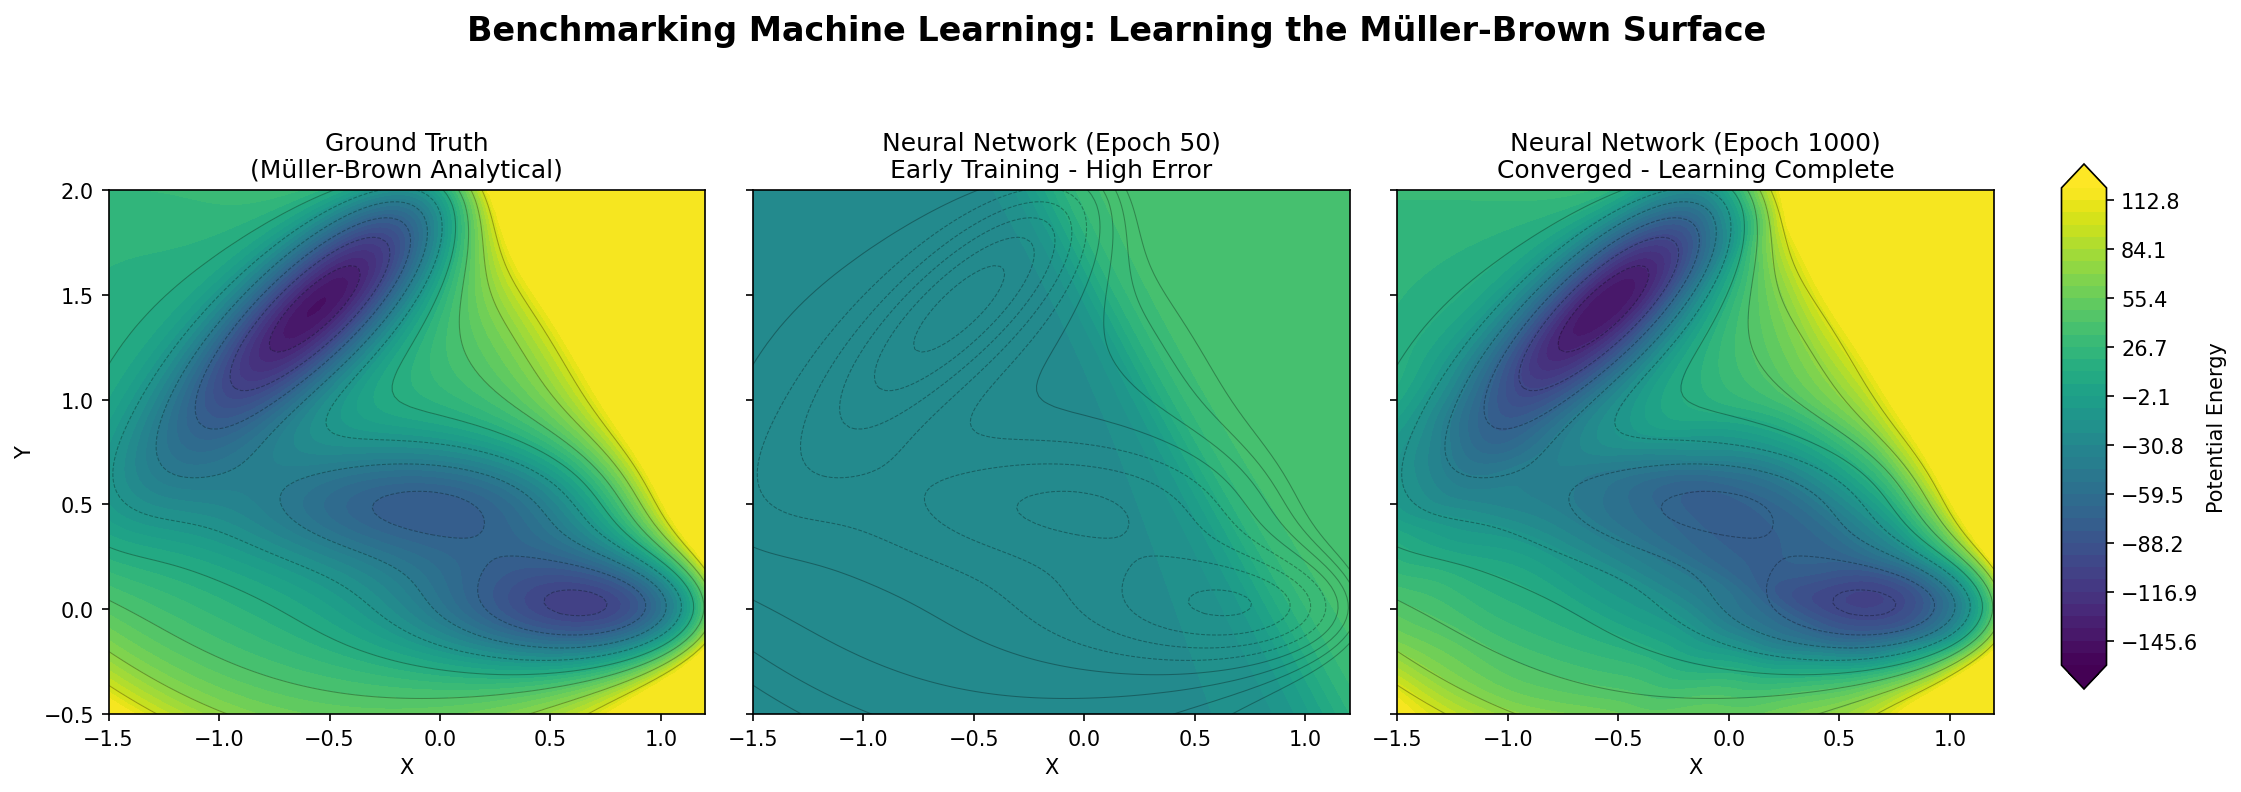
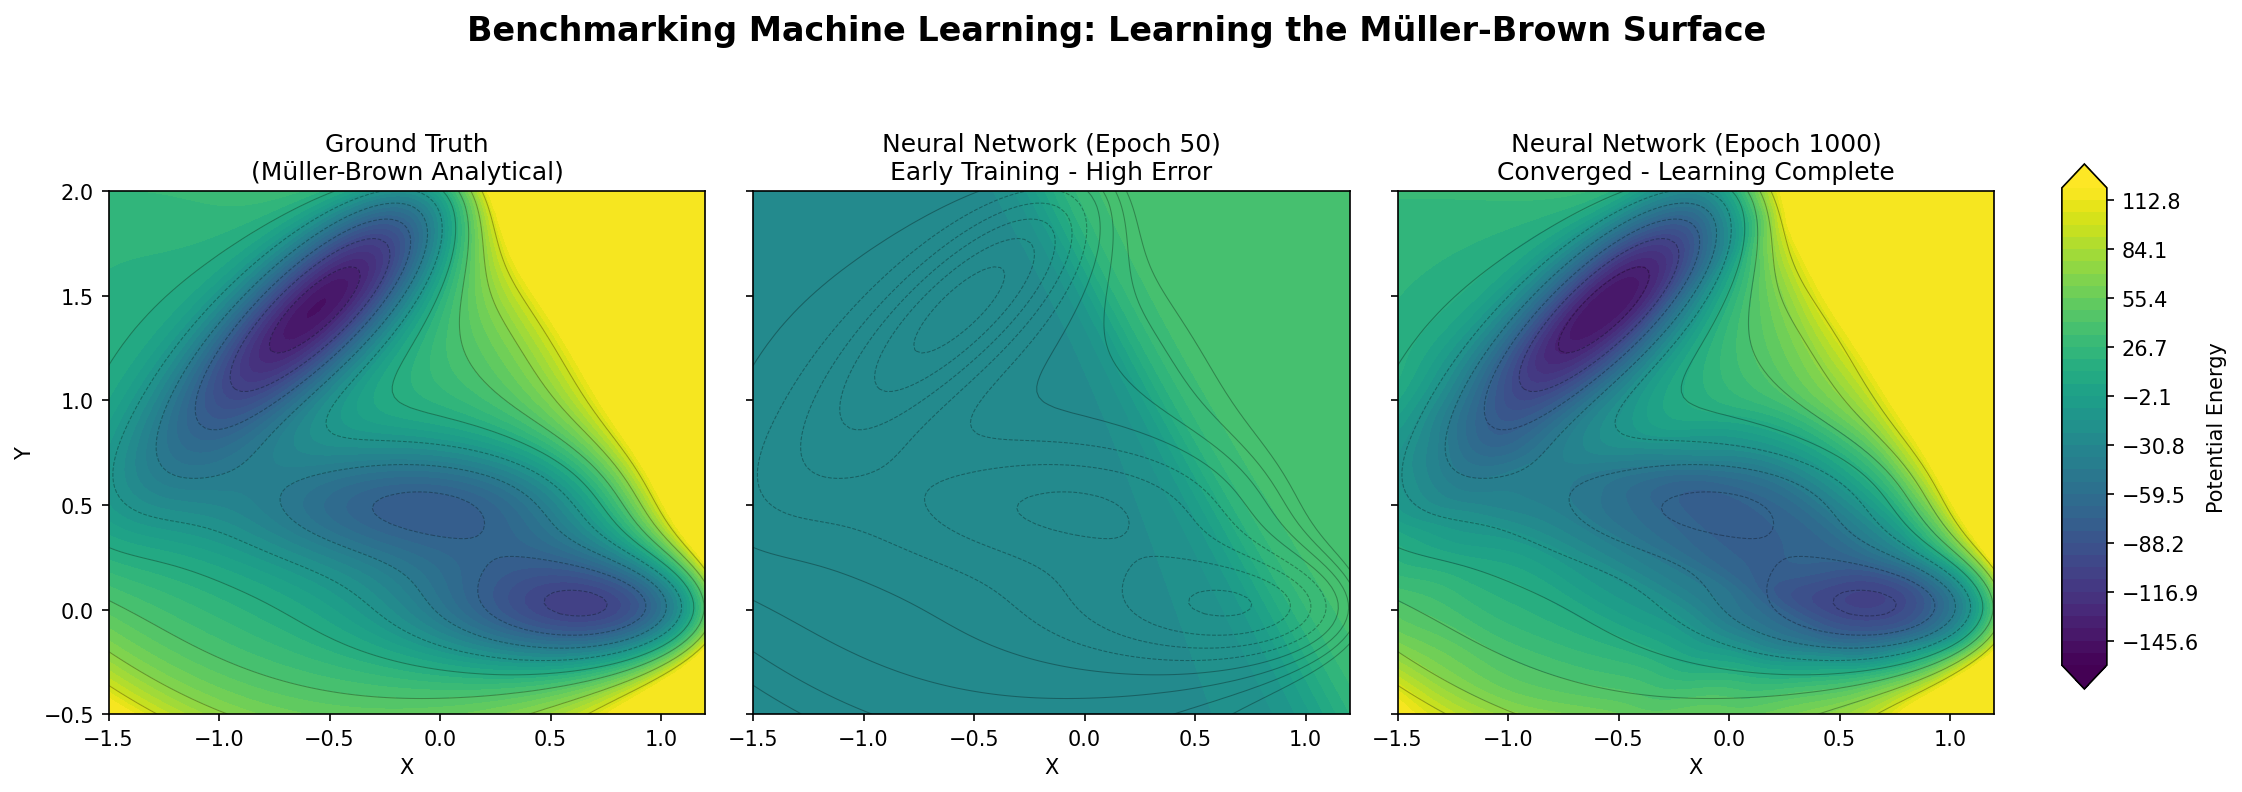
Use canonical potential in nnp.py benchmark
nnp.py reimplemented the Müller-Brown potential as a separate MuellerBrownGT
class with its own hardcoded parameters, which could drift from the canonical
constants. Import MuellerBrownPotential (float32) as the ground truth instead;
unsqueeze its (N,) output to (N, 1) to match the MLP target shape. Also fix the
output filename to match the committed image (muller-brown-ml-benchmark.png) and
drop the unused matplotlib.cm import. Regenerated plot reflects current code.

diff --git a/nnp.py b/nnp.py
@@ -3,30 +3,10 @@ import torch.nn as nn
 import torch.optim as optim
 import numpy as np
 import matplotlib.pyplot as plt
-from matplotlib import cm
 
-# --- 1. Ground Truth (Muller-Brown Class) ---
-class MuellerBrownGT(nn.Module):
-    def __init__(self):
-        super().__init__()
-        self.register_buffer("A", torch.tensor([-200., -100., -170., 15.]))
-        self.register_buffer("a", torch.tensor([-1., -1., -6.5, 0.7]))
-        self.register_buffer("b", torch.tensor([0., 0., 11., 0.6]))
-        self.register_buffer("c", torch.tensor([-10., -10., -6.5, 0.7]))
-        self.register_buffer("x0", torch.tensor([1., 0., -0.5, -1.]))
-        self.register_buffer("y0", torch.tensor([0., 0.5, 1.5, 1.]))
+from src.muller_brown import MuellerBrownPotential
 
-    def forward(self, coords):
-        # coords shape: (N, 2)
-        x, y = coords[:, 0], coords[:, 1]
-        V = torch.zeros_like(x)
-        for i in range(4):
-            dx = x - self.x0[i]
-            dy = y - self.y0[i]
-            V += self.A[i] * torch.exp(self.a[i]*dx**2 + self.b[i]*dx*dy + self.c[i]*dy**2)
-        return V.unsqueeze(1) # Shape (N, 1)
-
-# --- 2. The Student Model (Simple MLP) ---
+# --- 1. The Student Model (Simple MLP) ---
 class SimpleNNP(nn.Module):
     def __init__(self):
         super().__init__()
@@ -44,13 +24,13 @@ class SimpleNNP(nn.Module):
 
 # --- 3. Setup Data and Training ---
 torch.manual_seed(42)
-gt_model = MuellerBrownGT()
+gt_model = MuellerBrownPotential(dtype=torch.float32)
 student_model = SimpleNNP()
 
 # Generate Training Data (Random sampling over the relevant domain)
 n_samples = 2000
 X_train = (torch.rand(n_samples, 2) * torch.tensor([2.7, 2.5])) + torch.tensor([-1.5, -0.5])
-y_train = gt_model(X_train)
+y_train = gt_model(X_train).unsqueeze(1)  # (N, 1) to match the MLP output
 
 optimizer = optim.Adam(student_model.parameters(), lr=0.01)
 criterion = nn.MSELoss()
@@ -115,5 +95,5 @@ fig.colorbar(contour, cax=cbar_ax, label='Potential Energy')
 
 plt.suptitle("Benchmarking Machine Learning: Learning the Müller-Brown Surface", fontsize=16, fontweight='bold', y=1.05)
 plt.tight_layout(rect=[0, 0, 0.9, 1]) # Make room for colorbar and title
-plt.savefig('muller_brown_ml_benchmark.png', dpi=150, bbox_inches='tight')
+plt.savefig('muller-brown-ml-benchmark.png', dpi=150, bbox_inches='tight')
 plt.show()